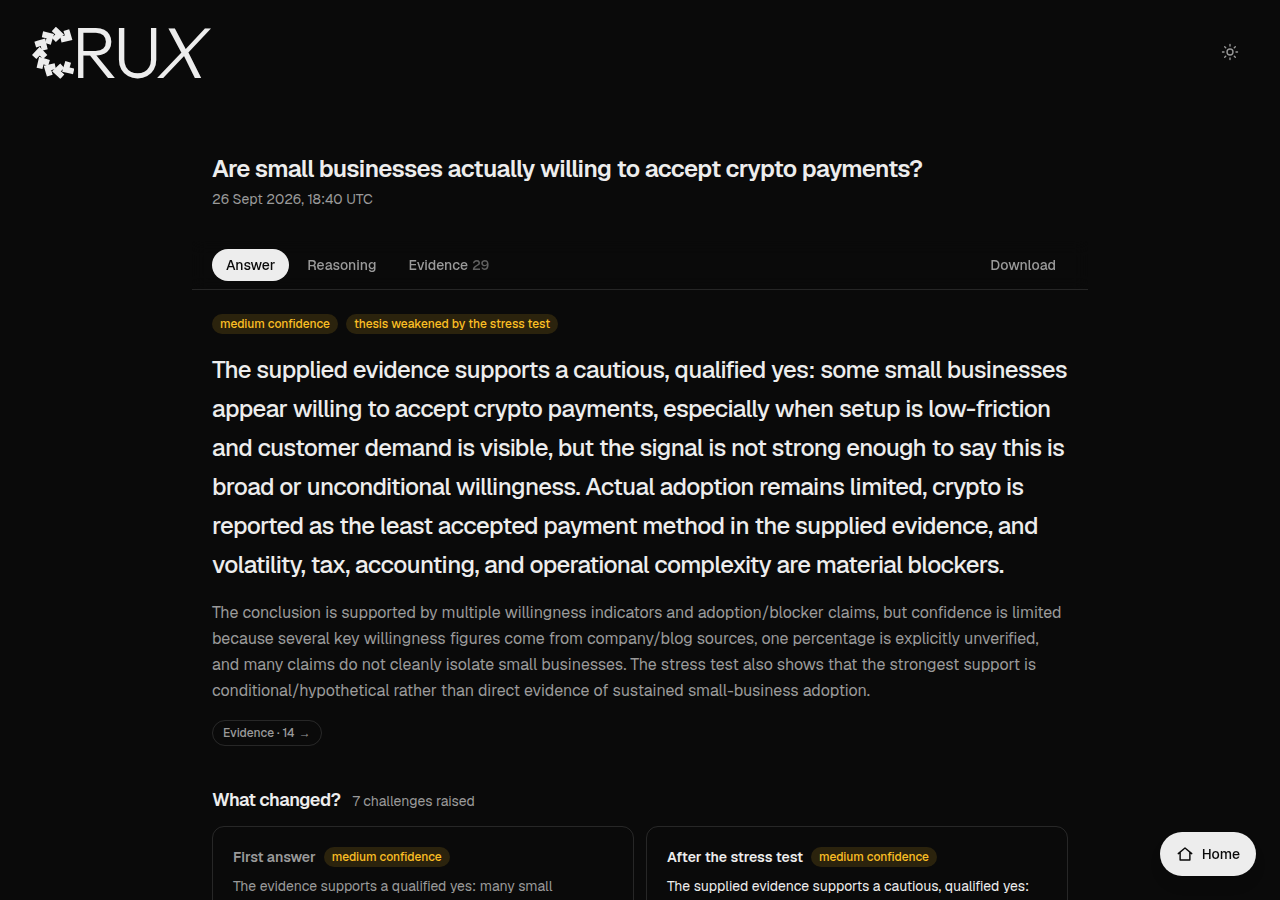
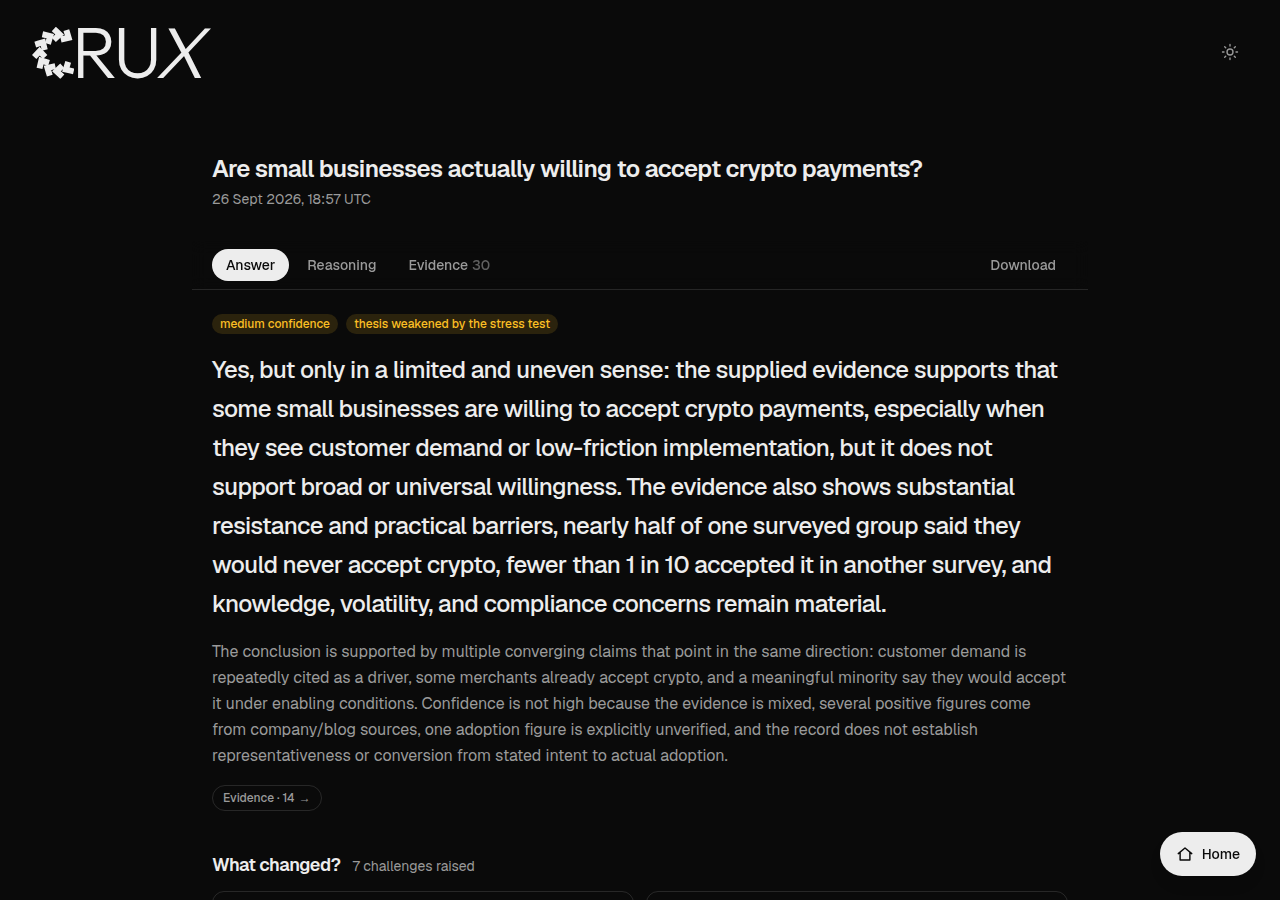
Refresh README screenshots and numbers from a new live run

diff --git a/README.md b/README.md
@@ -20,11 +20,11 @@ Every number below is from a real run of the demo question on 26 September 2026,
 
    | Stage | What happens | Time |
    | --- | --- | --- |
-   | Research | SERV plans 8 searches (half of them hunting for evidence against), Tavily runs them, 20 sources are picked, SERV extracts facts and Crux checks every quote | 21.7 s |
-   | Thesis | SERV commits to a first answer and names the assumptions it rests on | 7.3 s |
-   | Stress test | SERV challenges the thesis: weak assumptions, contradicting evidence, other explanations, risks, missing evidence | 13.1 s |
-   | Re-evaluate | Every assumption is re-judged against the evidence and the challenges | 9.7 s |
-   | Conclusion | The best-supported answer, its confidence, what's uncertain and what to check next | 8.8 s |
+   | Research | SERV plans 8 searches (half of them hunting for evidence against), Tavily runs them, 20 sources are picked, SERV extracts facts and Crux checks every quote | 30.5 s |
+   | Thesis | SERV commits to a first answer and names the assumptions it rests on | 7.7 s |
+   | Stress test | SERV challenges the thesis: weak assumptions, contradicting evidence, other explanations, risks, missing evidence | 10.6 s |
+   | Re-evaluate | Every assumption is re-judged against the evidence and the challenges | 11.0 s |
+   | Conclusion | The best-supported answer, its confidence, what's uncertain and what to check next | 7.2 s |
    | What changed | Assembled from the recorded stages, no model call | 0 s |
 
    About a minute in total, 6 SERV calls and 8 Tavily searches.
@@ -51,7 +51,7 @@ The first answer next to the answer after the stress test, and every material ch
 
 ![What changed: the first answer, the final answer, and why it moved](docs/screenshots/what-changed.png)
 
-In the demo run, the thesis was **weakened**: three changes, each backed by specific facts and challenges, turned "many small businesses are willing" into "some are, under conditions, and adoption stays limited".
+In the demo run, the thesis was **weakened**: three changes, each backed by specific facts and challenges, turned "many merchants are willing, with conditions" into "some are, but not broadly, and stated willingness is not proof of adoption".
 
 ### Stress test
 
@@ -61,13 +61,13 @@ SERV acts as a skeptical investor and challenges the first answer. Each challeng
 
 ### Assumptions, re-judged
 
-Every assumption the thesis depends on gets a verdict: supported, weakened, contradicted or unresolved, with the reasoning. If the re-evaluation skips one, Crux marks it unresolved rather than letting it pass silently. In the demo run: 3 weakened, 1 supported.
+Every assumption the thesis depends on gets a verdict: supported, weakened, contradicted or unresolved, with the reasoning. If the re-evaluation skips one, Crux marks it unresolved rather than letting it pass silently. In the demo run: 2 weakened, 2 supported.
 
 ![Assumptions with their verdicts](docs/screenshots/assumptions.png)
 
 ### Evidence, fact-checked
 
-Every fact shows the exact words it came from, with a link to the source. The summary at the top says how many extracted facts were dropped because their quote wasn't in the source, and sources are labelled by type. The demo run kept 29 facts (20 for, 9 against) from 20 sources and dropped 1.
+Every fact shows the exact words it came from, with a link to the source. The summary at the top says how many extracted facts were dropped because their quote wasn't in the source, and sources are labelled by type. The demo run kept all 30 facts it extracted (23 for, 6 against, 1 neutral) from 20 sources, and flagged 1 whose year wasn't in its quote.
 
 ![The Evidence view](docs/screenshots/evidence.png)
 
@@ -160,9 +160,9 @@ Two limits to be plain about: a fact's **stance** (for or against) and the **typ
 
 ## What was checked
 
-- **Live runs with SERV and Tavily.** Three live runs of the crypto question on 26 September 2026. The second and third ran after the balanced-research change: evidence went from 24 for and 0 against to 22 for and 9 against, and source types from "20 company / blog" to a mix of research, government, industry, news and reference. Every quote passed except one, which was correctly dropped.
-- **The screenshots** are from the third run. After it, three fixes were made that it had exposed: spelled-out figures ("Thirty-three percent") now match digits, a fact extracted twice is merged, and more publishers are recognised. The report shown was reprocessed with those fixes from the same SERV output, which is why its answer still mentions one "unverified" figure: that was the false flag the first fix removed.
-- **Unit tests** (`npm test`, 57 tests): quote verification, figures in digits and words, source labels and selection, balanced queries, ID and dash stripping, prompt-guard retries, and the full pipeline on sample data.
+- **Live runs with SERV and Tavily.** Four live runs of the crypto question on 26 September 2026. From the second run on, after the balanced-research change, evidence went from 24 for and 0 against to a real case against (9 against in the third run, 6 in the fourth), and source types from "20 company / blog" to a mix of research, industry, news and company sources.
+- **The screenshots** are from the fourth run, made after the last round of fixes and shown exactly as it came back. All 30 extracted facts passed the quote check; 1 is flagged because it says "in 2026" while its quote doesn't give a year.
+- **Unit tests** (`npm test`, 66 tests): quote verification, figures in digits and words, source labels and selection, balanced queries, ID and dash stripping (only this run's IDs, ranges and abbreviations handled), prompt-guard retries, and the full pipeline on sample data.
 - **The UI in a real browser** (headless Chromium): every view at 320, 360, 390 and 1200 px, light and dark, no sideways scrolling, PDF downloads from sample and live reports, the demo question by arrow key and by tap.
 - **Type check, lint and production build** are clean (`npm run typecheck`, `npm run lint`, `npm run build`).
 
